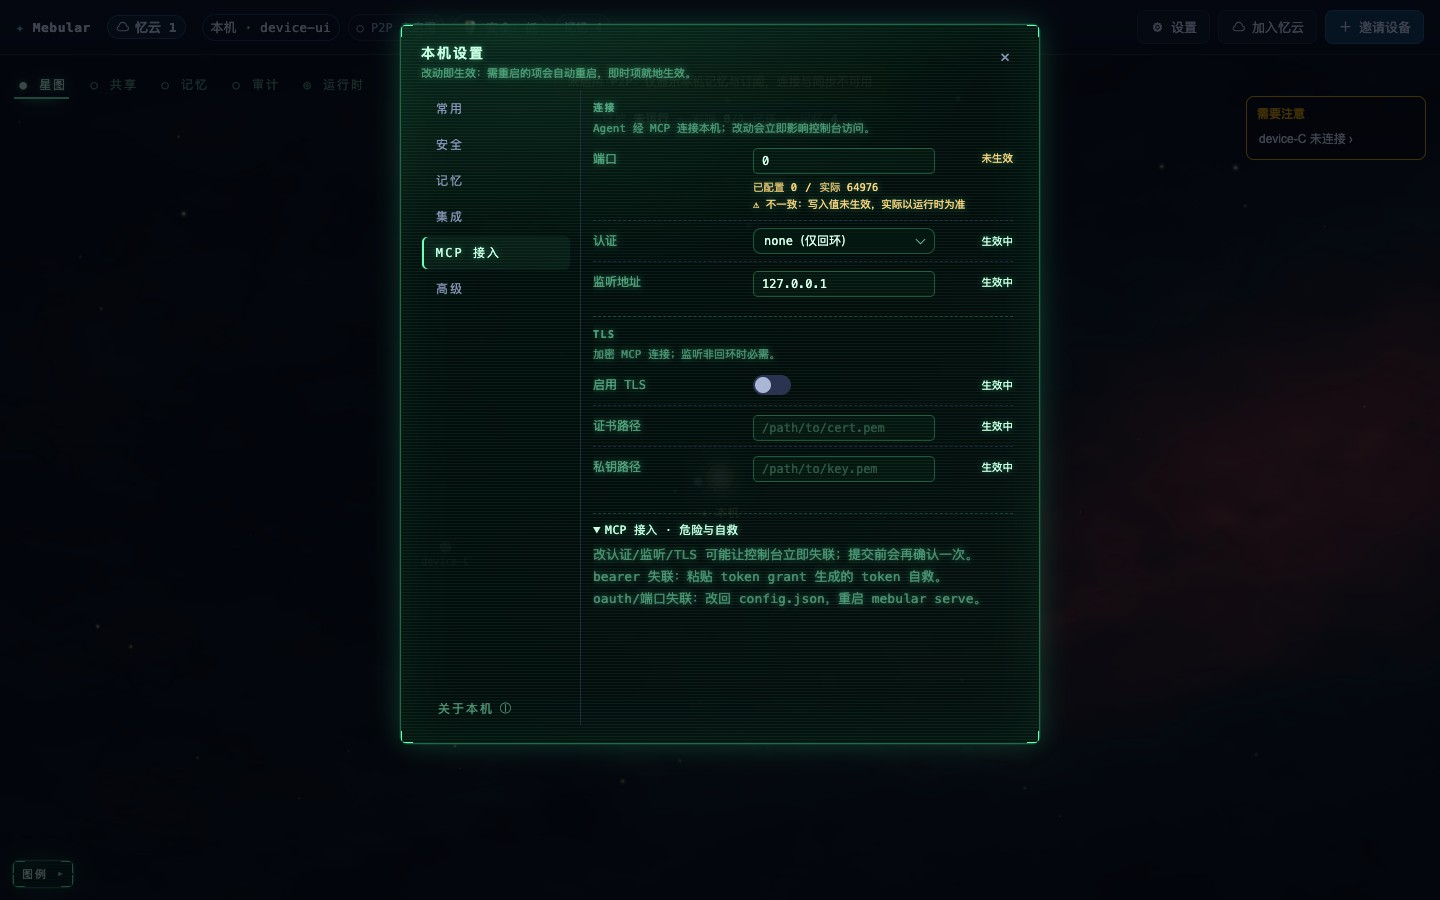
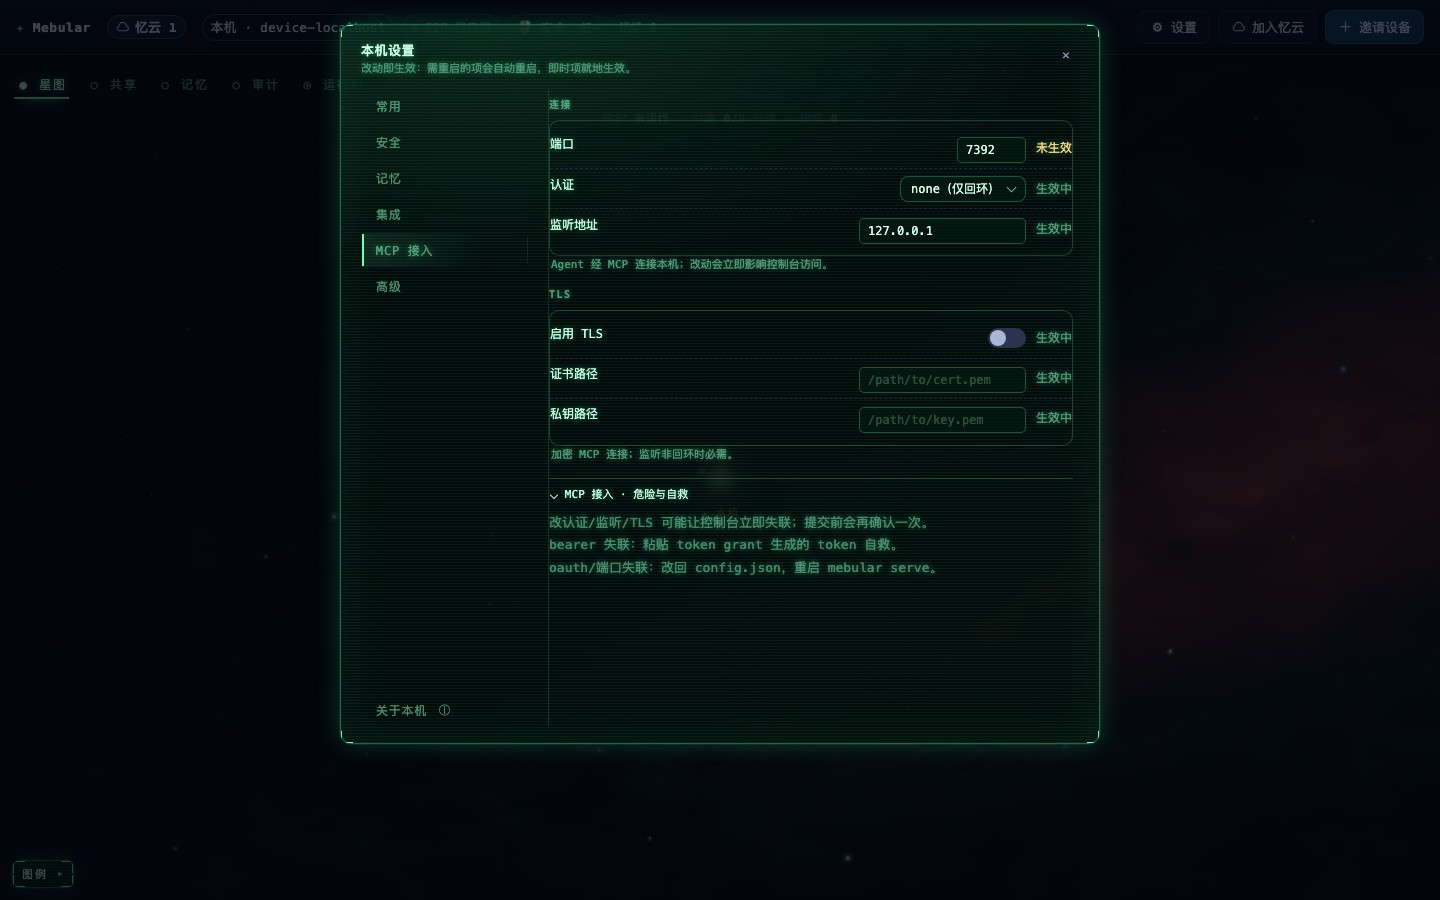
fix(console): keep 40px rows at 900; refresh v2 screenshot baselines
- move kv/about stacking rules from <=900 to <=760; 900 keeps label/value on one line
- assert 900 row height 40, dt/value top diff <=2, no horizontal overflow in verify:console:ui
- refresh u1/u3/u4 settings screenshots (1440/900/390, en, reduced-motion, banner)
- document 760x720 / 188 rail / 680 about / 900 vertical scroll in docs

diff --git a/packages/console/console.css b/packages/console/console.css
@@ -2937,16 +2937,15 @@ html[lang="en-US"] .btn-small { line-height: 1.5; }
   }
   .modal-settings .settings-rail-foot { margin-left: 0; }
   .modal-settings .settings-scroll { padding-top: 10px; }
-  .settings-kv, .about-group .settings-kv { grid-template-columns: minmax(0, 1fr) auto; gap: 0 10px; }
-  .settings-kv .kv-row > * { min-height: 40px; }
-  .settings-kv dt { padding-left: 0; }
-  .settings-kv .kv-action { padding-right: 0; }
-  .settings-kv .kv-row > .kv-value { grid-column: 1; }
-  .cfg-row { flex-wrap: nowrap; }
-  .cfg-label { flex-basis: auto; }
-  .pending-restart { height: auto; min-height: 40px; flex-wrap: wrap; padding: 6px 10px; }
-  .pending-restart-list { display: none; }
   #about .modal-box { height: calc(100vh - 24px); }
+}
+
+/* 900：轨已横排，但行仍保持 label/value 同一行、40px；堆叠只在 ≤760 */
+@media (max-width: 900px) and (min-width: 761px) {
+  .settings-kv, .about-group .settings-kv {
+    grid-template-columns: var(--row-label-w) minmax(0, 1fr) var(--kv-action-w);
+    gap: 0 10px;
+  }
 }
 
 @media (max-width: 560px) {
@@ -2957,7 +2956,6 @@ html[lang="en-US"] .btn-small { line-height: 1.5; }
   }
   .modal-settings .settings-rail .settings-tab { padding: 0 8px; }
   .settings-group { margin-top: 12px; }
-  .settings-kv, .about-group .settings-kv { grid-template-columns: minmax(0, 1fr) auto; }
   .about-actions-row, .settings-actions-row { padding: 0 12px; }
   #about .modal-actions { flex-wrap: wrap; }
 }

diff --git a/docs/console/screens/u4-settings-redesign/README.md b/docs/console/screens/u4-settings-redesign/README.md
@@ -1,18 +1,19 @@
-# U-4 · 设置弹层改版（竖轨 + 统一行模板 + 安全卡状态）截图基线
+# U-4 · 设置弹层 v2 基线（760 外框 + 188 竖轨 + 40 行）
 
-基线：`feat/console-settings-redesign` 的 A–F、常用页收口、固定高度与设计稿对齐之后。本目录补的是 U-4 改版后的设置弹层视觉基线；U-1 / U-3 目录里对应的 after 截图已同步刷新。
+基线：`feat/console-settings-redesign` 的 v2 设置改版（760×720 / 关于 760×680）。本目录是 v2 全量视觉基线；U-1 / U-3 目录里对应的设置截图已同步刷新。
 
-> **设计稿对齐（2026-11-10）**：保留 640px CRT 外壳与配色，不引入蓝底；按 Kimi 设置稿收紧内部层级——分组标题改 10px / 1.5 字距，本机状态与忆云改为 CRT 内嵌面板，忆云两行合并为一张面板，安全卡动作移入标题行右侧，本机状态前加 6px 状态点。中英文文案同步压缩，常用 / 记忆 / 安全页在 720px 内完整显示，无横向溢出。
+> **v2 改版（2026-11-11）**：设置外框 640 → **760**，左轨 160 → **188**，内容列约 **530**；设置高 **720**、关于高 **680**。高度只保留 **34 / 40 / 58**（控件 26），面板 = 16 + 行数；字号只保留 **10 / 11 / 12 / 13 / 19**；分组标签 10px / 1.5 字距、sentence case、无渐隐横线、无 pill；安全三卡统一 **114** 并带 19px 状态值；待重启/应用结果条定高 **40**；关于本机三组 + 三折叠、40 行、43 项字段 parity。
 
 ## 范围
 
-- **竖轨**：≥901px 为左侧 160px 固定页签轨（`常用 / 安全 / 记忆 / 集成 / MCP 接入 / 高级`，底部「关于本机」）；≤900px 折叠为顶部横排；≤760px 继续换行。
-- **关于本机入口**：34px 单行，直接作为左轨最后一项（不再加额外横线/底栏），左右 16px 内边距；11px `ⓘ` 紧贴文字右侧 6px，不再使用全宽粗分隔线和大圆图标。
-- **固定外壳**：标题 + 「改动即生效」提示常驻；弹层固定 720px 高（中英文常用页均能容纳），切换页签不再跳高；页签轨不滚，只有内容列 `.settings-scroll` 滚动；滚动时轨与底部「关于本机」不动。
-- **统一行模板**：字段行 `label | control | status` 三列，只读行 `label | value | action`；正常状态显示纯文字「生效中」，异常才是琥珀「待重启 / 未生效」。
-- **模型来源在记忆页**：`记忆` 页签内「记忆模式 → 模型来源 → 模型状态 → 运行状态」，高级页不再混入模型来源。
-- **安全卡状态**：三张状态卡（安全等级 / 动态码种子 / 恢复码），`is-effective`（实心点 + 左侧荧光条）/ `is-off`（空心点 + 中性底）；动作按钮收进标题行右侧，正文获得整行宽度（英文卡片不再被按钮挤成窄柱）；待批准行只在有记录时出现。
-- **关于本机叠层**：设置轨底部「关于本机」在设置之上打开只读面板，设置保持打开。
+- **外壳**：设置 760×720、关于 760×680；标题 + 「改动即生效」提示常驻；只有内容列 `.settings-scroll` 滚动。
+- **竖轨**：≥901px 为左侧 **188px** 固定页签轨（`常用 / 安全 / 记忆 / 集成 / MCP 接入 / 高级`，底部「关于本机 ⓘ」）；**≤900px** 折叠为顶部横排；**≤760px** 顶部横排 + 只读行改为上下两行；**≤560px** 全屏无边框。
+- **900 档**：顶部横排后内容区变矮，**允许竖向滚动**（正常行、正常滚动）；只读行仍是 40px、label/value 同一行，禁止套 390 的堆叠规则。
+- **统一行模板**：字段行 `label | control | status`，只读行 `label | value | action`；40px + 行间虚线；常驻/忆云两行信息 58px；警告/帮助独立成行。
+- **安全卡**：三张同构 114px（安全等级 / 动态码种子 / 恢复码），19px 状态值；`is-effective` 实心点 + 左侧荧光条，`is-off` 空心点；待批准条只在有记录时置顶（40px）。
+- **关于本机**：三组（身份与存储 / 运行与同步 / 诊断与恢复）+ 三折叠，40px 行；旧 about 的 43 项字段全量保留（见 `../../../console/ABOUT-PARITY` 对应原型清单），不新增日志路径。
+- **常驻「更多」**：行内 `summary` + 浮层菜单（`aria-haspopup="menu"` / `aria-expanded`，Esc / 点外关闭，`position: fixed` 不被弹层裁切）；主操作仍直接可见。
+- **集成**：保持 40 行 + 原有详情/表单，不做 58 行版本；58 只用于常驻/忆云。
 
 ## 截图
 
@@ -20,61 +21,59 @@
 
 | 文件 | 说明 |
 |---|---|
-| `u4-after-settings-common-1440.jpg` | 常用：语言行 + 常驻运行 + 自动修复 + 只读状态 + 忆云卡 |
-| `u4-after-settings-memory-1440.jpg` | 记忆：记忆模式 / 模型来源（唯一入口）/ 运行状态；模型状态仅在沉浸式显示 |
-| `u4-after-settings-security-1440.jpg` | 安全：三张状态卡 = 生效（等级）+ 未配置（种子/恢复码） |
-| `u4-after-settings-mcp-1440.jpg` | MCP 接入：连接 / TLS 两组 + 三列状态列 |
-| `u4-after-settings-advanced-1440.jpg` | 高级：常驻服务 / 网络 / 自动化 + 诊断与恢复折叠 |
-| `u4-after-settings-rail-scrolled-1440.jpg` | 记忆页滚到中部：标题、竖轨、底部「关于本机」保持不动 |
-| `u4-after-settings-about-overlay-1440.jpg` | 关于本机叠在设置之上（设置不关闭） |
+| `u4-after-settings-common-1440.jpg` | 常用：语言 + 本机运行（常驻 58 / 修复 40 / 向导 40）+ 本机状态 3×40 + 忆云 2×58 |
+| `u4-after-settings-common-banner-1440.jpg` | 常用 + 40px 待重启条：单行、动作右对齐、不挤压内容 |
+| `u4-after-settings-security-1440.jpg` | 安全：三张 114 卡 + 19px 状态值（无待批准时不显示条件条） |
+| `u4-after-settings-memory-1440.jpg` | 记忆：记忆模式（轻量 MCP / 沉浸式）/ 模型来源（heuristic/local/host/api/auto）/ 运行状态 |
+| `u4-after-settings-mcp-1440.jpg` | MCP：连接 / TLS 两组 + 端口不一致独立警告行 |
+| `u4-after-settings-advanced-1440.jpg` | 高级：常驻服务 / 网络 / 自动化 + 诊断折叠 |
+| `u4-after-settings-rail-scrolled-1440.jpg` | 记忆页滚动后：标题、竖轨、底部「关于本机」不动 |
+| `u4-after-settings-about-overlay-1440.jpg` | 关于本机叠在设置之上（设置不关闭），三组 + 折叠 |
 
-### 900 × 900（zh-CN，竖轨折叠为顶部横排）
-
-| 文件 | 说明 |
-|---|---|
-| `u4-after-settings-memory-900.jpg` | 记忆：顶部横排页签 + 长内容滚动 |
-| `u4-after-settings-security-900.jpg` | 安全：三张状态卡在横排页签下不溢出 |
-
-### 390 × 844（zh-CN，无横向滚动）
+### 900 × 900（zh-CN，顶部横排，允许竖向滚动）
 
 | 文件 | 说明 |
 |---|---|
-| `u4-after-settings-common-390.jpg` | 常用：页签换行、常驻/修复行不挤压按钮 |
+| `u4-after-settings-common-900.jpg` | 常用：横排页签；P2P/邀请服务/安全等级仍 40 行、label/value 同行 |
+| `u4-after-settings-security-900.jpg` | 安全：三张卡在横排页签下不溢出 |
+| `u4-after-settings-memory-900.jpg` | 记忆：长内容竖向滚动 |
+| `u4-after-settings-about-900.jpg` | 关于：760×680，行仍 40、label/value 同行 |
+
+### 390 × 844（zh-CN，全屏，无横向滚动）
+
+| 文件 | 说明 |
+|---|---|
+| `u4-after-settings-common-390.jpg` | 常用：页签换行、常驻动作换行、只读行 label/value 两行 |
+| `u4-after-settings-security-390.jpg` | 安全：三张卡单列 |
 | `u4-after-settings-memory-390.jpg` | 记忆：模型来源下拉整行 |
-| `u4-after-settings-security-390.jpg` | 安全：三张状态卡单列 |
 
 ### en-US（1440）
 
 | 文件 | 说明 |
 |---|---|
-| `u4-after-settings-memory-en-1440.jpg` | 记忆：英文长文案在 420px 内容列内正常换行 |
-| `u4-after-settings-security-en-1440.jpg` | 安全：英文状态词 + 状态卡 |
-| `u4-after-settings-common-en-1440.jpg` | 常用：英文「Not resident (temporary)」不再把「Keep Mebular resident」挤出可视区 |
+| `u4-after-settings-common-en-1440.jpg` | 常用：长状态词不把动作挤出可视区 |
+| `u4-after-settings-security-en-1440.jpg` | 安全：英文档位 / 种子 / 恢复码状态 |
+| `u4-after-settings-memory-en-1440.jpg` | 记忆：英文说明在 530 内容列内单行 / 截断 |
 
 ### reduced-motion（1440）
 
 | 文件 | 说明 |
 |---|---|
-| `u4-after-settings-memory-reduced-motion.jpg` | `prefers-reduced-motion: reduce` 下记忆页（去掉过渡/闪烁，布局不变） |
+| `u4-after-settings-memory-reduced-motion.jpg` | `prefers-reduced-motion: reduce` 下记忆页（无过渡，布局不变） |
 
-## 复跑命令
+## 复跑
 
-官方脚本（会因「本地模型来源」段既有 fake-sidecar 缺陷中断，见下）：
-
-```bash
-CHROME_PATH='/Users/sobertli/Library/Caches/ms-playwright/chromium-1248/chrome-mac-x64/Google Chrome for Testing.app/Contents/MacOS/Google Chrome for Testing' \
-  npm run verify:console:ui
-```
-
-只要截图时，复制 `packages/console/scripts/verify-console-ui.mjs` 为同目录临时文件（保证相对 import 不变），跳过「本地模型来源」失败段（`capture('c6-settings-memory-model-source.jpg')` 之后到 `[data-settings-tab=assistants]` 点击之前），然后：
+官方脚本会因「本地模型来源 / C8f」既有 fake-sidecar 缺陷中断（见下）。截图由本地 CDP 直连生成（深链 `?view=settings&tab=…&lang=…`，视口 1440×900 / 900×900 / 390×844，JPEG q90）：
 
 ```bash
-MEBULAR_SCREENSHOT_DIR=/tmp/mebular-u4-shots U4_SKIP_LOCAL_MODELS=1 \
-CHROME_PATH='/Users/sobertli/Library/Caches/ms-playwright/chromium-1248/chrome-mac-x64/Google Chrome for Testing.app/Contents/MacOS/Google Chrome for Testing' \
-  node packages/console/scripts/verify-console-ui-u4-tmp.mjs
+# 先起本地测试 serve（只读，不碰 App / ~/.mebular）
+MEBULAR_HOME=/tmp/mebular-v2-home MEBULAR_USER_HOME=/tmp/mebular-v2-home \
+MEBULAR_CLOUD_ROOT=/tmp/mebular-v2-home node packages/mcp/bin/mebular.mjs serve --port 7391
+
+# 再用 CDP 截图脚本（本目录 v2 基线即此流程产物；脚本不入库）
 ```
 
-临时脚本跑完即删，不入库。u1/u3/u4 截图从 `MEBULAR_SCREENSHOT_DIR` 拷回本仓库对应目录。
+设置页也支持深链直接打开：`/console/?view=settings&tab=common|security|memory|mcp|advanced`，`&lang=en` 切英文；关于本机从页签轨底部「关于本机 ⓘ」打开。
 
 ## 已知既有失败（非本次 UI 改动）
 
@@ -86,22 +85,24 @@ CHROME_PATH='/Users/sobertli/Library/Caches/ms-playwright/chromium-1248/chrome-m
 4. `C8f 模型列表 760px：单列卡片、无横向滚动`
 5. `UI 冒烟执行（页面求值失败：TypeError: Cannot read properties of null (reading 'click')）`
 
-A–E 已分别确认与本次 UI 改动无关；本会话按要求不改 API/config/core 去“修”它。跳过后其余 **415 项全绿**（连跑两次一致）。
+该失败在改动前的 HEAD 上同样复现（stash 后连跑两次一致），与 v2 无关；其余 **48/53** 通过。
 
 ## 人工走查结论
 
 | 检查项 | 结论 |
 |---|---|
-| 1440 / 900 / 390 三档 | 1440 竖轨 160px；900 折顶部横排（`aria-orientation=horizontal`，轨宽 = 内容列宽）；390 页签换行、无横向滚动（探针 `scrollWidth <= clientWidth + 1`）。 |
-| 中 / 英 | 中文与 en-US 均不裁切按钮、不产生弹框内横向溢出；1440px 下 en-US 常用 / 记忆 / 安全页内容高度均 ≤ 视口内容区（639 / 623 / 623px），无需滚动即可看全；390px 集成页 `Snippet ›` 不再越界。 |
-| reduced-motion | `prefers-reduced-motion: reduce` 下无位移动画依赖，布局与常规一致。 |
-| 滚动时 rail 固定 | 记忆页 `scrollTop > 0` 时 rail / rail-foot 的 `getBoundingClientRect().top` 变化 ≤1px；滚动只发生在 `.settings-scroll`。 |
-| 关于本机叠层 | 设置轨底部「关于本机」打开 `#about` 时 `#settings` 仍可见，层级正确。 |
-| 安全卡三种状态 | 当前低档：安全等级 = 生效（实心点/荧光条），动态码种子 = 未导入（`is-off`），恢复码 = 未生成（`is-off`）；待批准条只在有记录时出现。高档/待批准/恢复码基线见 `../u3/` 与 `../security-tiers/`。 |
-| 模型来源在记忆页 | 记忆页含唯一 `#rt-model-source`；高级页断言 `!p.querySelector('#rt-model-source')` 通过。 |
-| 无横向滚动 | 官方脚本 390px 断言（安全 / MCP / 高级）通过；新增常用 / 记忆 390px 探针同样通过。 |
+| 1440 / 1024 | 竖轨 188；弹层 760×720；常用含 40 条时内容 539.7 / 可视 590（浏览器壳）；桌面壳多 40px 向导行 → 579.7 / 590，不滚。 |
+| 900 | 顶部横排（`aria-orientation=horizontal`）；只读行 40 高、dt 与 value 的 top 差 0；允许竖向滚动，无横向溢出。 |
+| 390 | 全屏；页签换行；只读行两行（label 上 / value 下）；`document.scrollWidth === innerWidth`。 |
+| 中 / 英 | 中英同一套 token；英文说明走单行 + 截断（`title` 保留全文），不撑行高。 |
+| reduced-motion | 无过渡依赖，布局与常规一致。 |
+| 滚动时 rail 固定 | 记忆页 `scrollTop > 0` 时 rail / rail-foot 位置不变；只有 `.settings-scroll` 滚动。 |
+| 关于本机叠层 | 设置轨底部「关于本机 ⓘ」打开 `#about` 时 `#settings` 仍可见。 |
+| 安全卡 | 低档：等级生效（实心点/荧光条）、种子未导入、恢复码未生成；待批准条只在有记录时出现。 |
+| 行模板 | 1440/1024/900：40 行、label/value 同行；390：两行；无横向滚动。 |
 
-## 本会话顺带修复（属 UI/测试收口，不改核心）
+## v2 修复记录
 
-1. `packages/console/console.css`：640 外框减 160 竖轨后内容列仅约 420px，en-US 常驻行的长状态文本把动作按钮挤出可视区（官方 i18n 密度断言 1440/1024 报 `scrollerOver=75`）。按「重启向导 / 自动修复」行同一策略收紧 `.settings-resident`：名称不占固定宽、状态可收缩换行、按钮不收缩。修复后 `scrollerOver=0`。
-2. `packages/console/scripts/verify-console-ui.mjs`：英文深度页断言仍期待旧文案 `Add assistant`，而实际文案与中文「＋ 接入 Agent」一致为 `+ Add agent`（i18n 翻译提交起就存在），改为 `/Add agent/`。
+1. `900` 断点曾误把只读行压成上下两行（`grid-column: 1`），行高从 40 涨到 ~80、常用内容 659.7。已把堆叠规则移到 **≤760**，900 保持三列/同行；修复后 900 常用内容 **539.7 / 535**（仅 4.7 竖向滚动），行高 40、dt/value top 差 0。
+2. 待重启/应用结果条从多行块收成 **40px** 单行（字段清单与手动指引进 `title`）。
+3. 关于本机由 8 段单折叠改为三组 + 三折叠，40 行；43 项字段 parity。

diff --git a/docs/console/page-map.md b/docs/console/page-map.md
@@ -24,7 +24,7 @@ IA 单一真源在 [`packages/console/settings-ia.js`](../../packages/console/se
 
 **术语**：用户可见文案中表示本机所处共享网络的「网络 / Mebular」统一为「**忆云**」；产品名「Mebular 控制台」不变，「记忆域 / 记忆」不变。
 
-E1 前后对比截图：[`screens/e1/`](screens/e1/)。U-1 设置/共享页收口前后对比：[`screens/u1/`](screens/u1/)。U-3 设置页设计收口（安全 / MCP / 高级）前后对比：[`screens/u3/`](screens/u3/)。U-4 设置弹层改版（竖轨 + 统一行模板 + 安全卡状态）基线：[`screens/u4-settings-redesign/`](screens/u4-settings-redesign/)。
+E1 前后对比截图：[`screens/e1/`](screens/e1/)。U-1 设置/共享页收口前后对比：[`screens/u1/`](screens/u1/)。U-3 设置页设计收口（安全 / MCP / 高级）前后对比：[`screens/u3/`](screens/u3/)。U-4 设置弹层 v2 基线（760×720 / 关于 760×680 / 188 竖轨 / 34-40-58 行 / 安全卡 114+19px）：[`screens/u4-settings-redesign/`](screens/u4-settings-redesign/)。900 档顶部横排，允许竖向滚动；390 行堆叠、无横向溢出。
 
 **顶栏（E1/E2-A2）**：品牌后是当前**忆云**徽章（名字只取 `overview.cloud.name`；旧守护没有该字段时隐藏，绝不按端口/目录猜）。操作为对称的「加入忆云」（次要）与「邀请设备」（主），窄屏折叠为图标；「连接已有地址」已撤下——它实际是**网内传输修复**，入口移到「高级 → 诊断与恢复 → 手动连接已知设备…」与设备卡「连不上？手动连接…」（不改变入网信任、不签发授权）。
 

diff --git a/docs/console/screens/u3/README.md b/docs/console/screens/u3/README.md
@@ -1,3 +1,5 @@
+> **v2 刷新（2026-11-11）**：设置壳改为 760×720（关于 760×680）、左轨 188；安全三卡统一 114 + 19px 状态值，MCP 端口不一致改为独立警告行，高级保留真实 checkbox/输入（26px）。本目录 `u3-after-settings-security*.jpg`、`u3-after-settings-mcp*.jpg`、`u3-after-settings-advanced*.jpg`（含 900/390 与展开态）已按 v2 重新生成；全量基线见 `../u4-settings-redesign/`。
+
 # U-3 · 设置页设计收口（安全 / MCP / 高级）
 
 基线：`openchamber/ui-consistency` `6475131`（#145，含 `f08091f` 新建域弹窗与 `6475131` 小弹窗居中）。本分支只改 `packages/console/**`、`tests/console/**`、`docs/console/**`；不改配置能力、行为或协议。

diff --git a/docs/console/screens/u1/README.md b/docs/console/screens/u1/README.md
@@ -1,3 +1,5 @@
+> **v2 刷新（2026-11-11）**：设置外框 640 → **760**、左轨 160 → **188**，设置高 **720**、关于 **680**；行 **34/40/58**、分组标签 10px/1.5、安全卡 114 + 19px。本目录 `u1-after-settings-common.jpg` / `u1-after-settings-common-390.jpg` 已按 v2 重新生成（常用页：语言 + 常驻 58 + 修复 40 + 只读 3×40 + 忆云 2×58）。900 档顶部横排、允许竖向滚动；390 只读行两行、无横向溢出。全量基线见 `../u4-settings-redesign/`。
+
 # U-1 · 设置/共享页 UI 收口（前后对比）
 
 基线：main `f1a1219`。截图由 `verify-console-ui.mjs`（真实 serve + headless Chrome）与同一临时 home 的 Playwright 截图生成。
